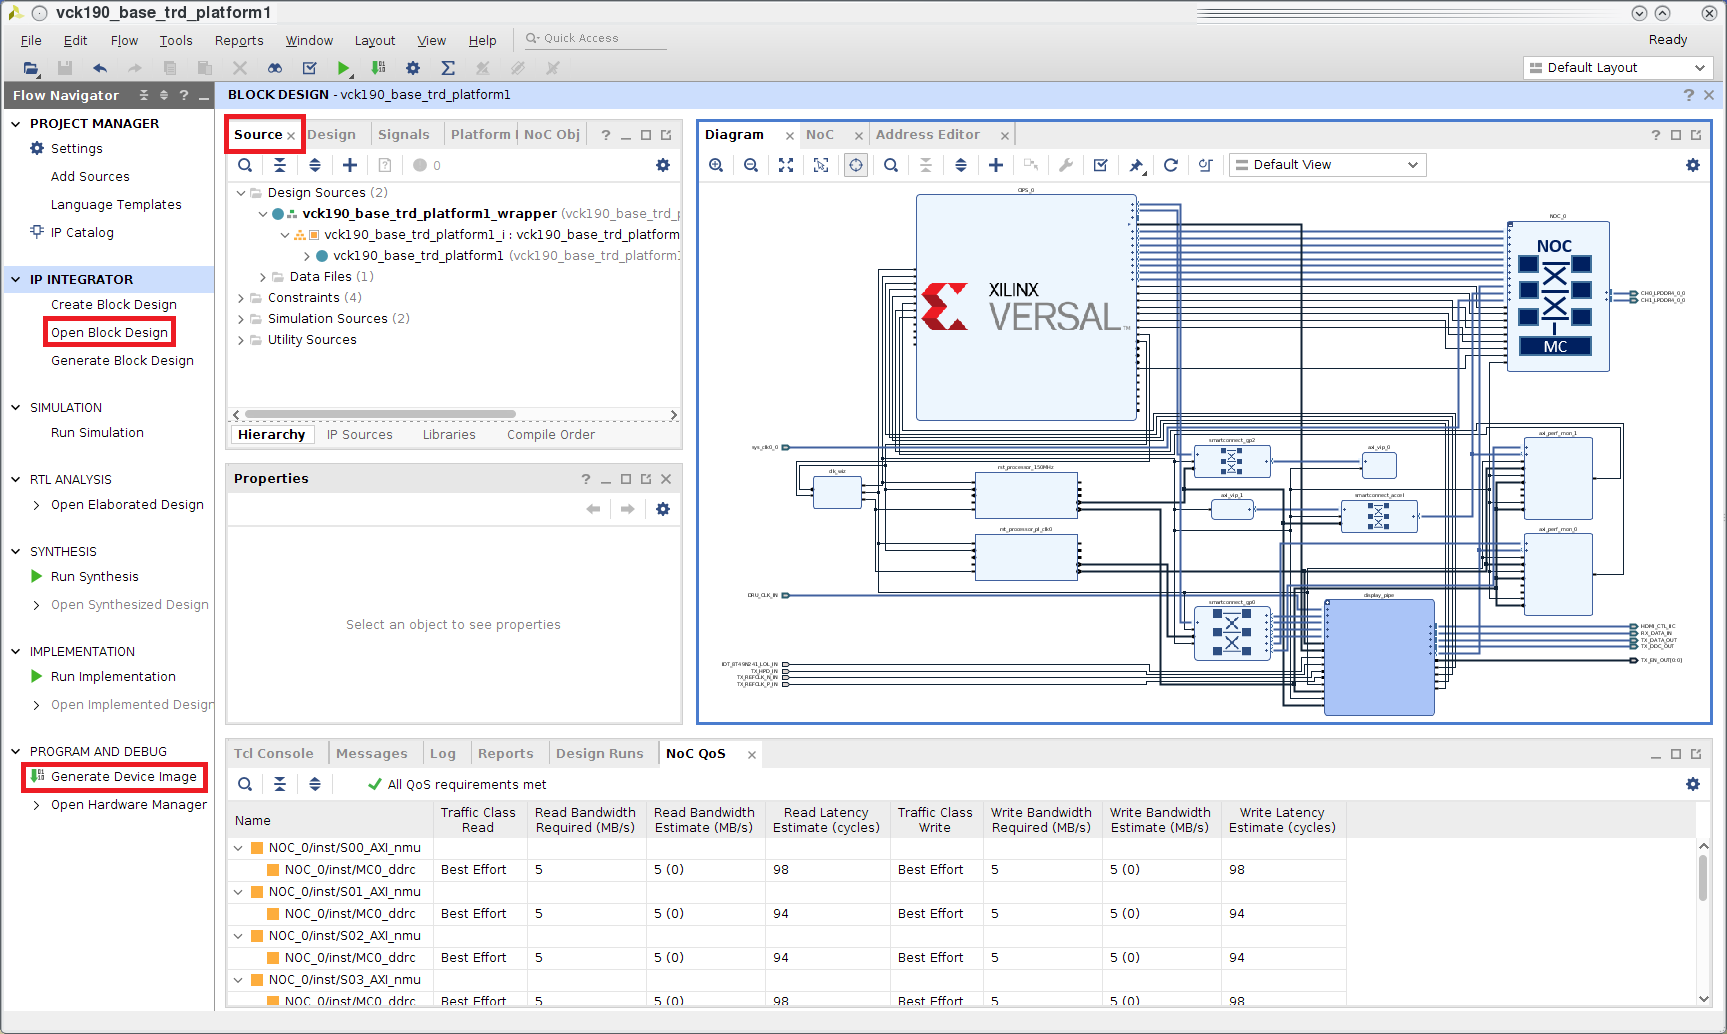
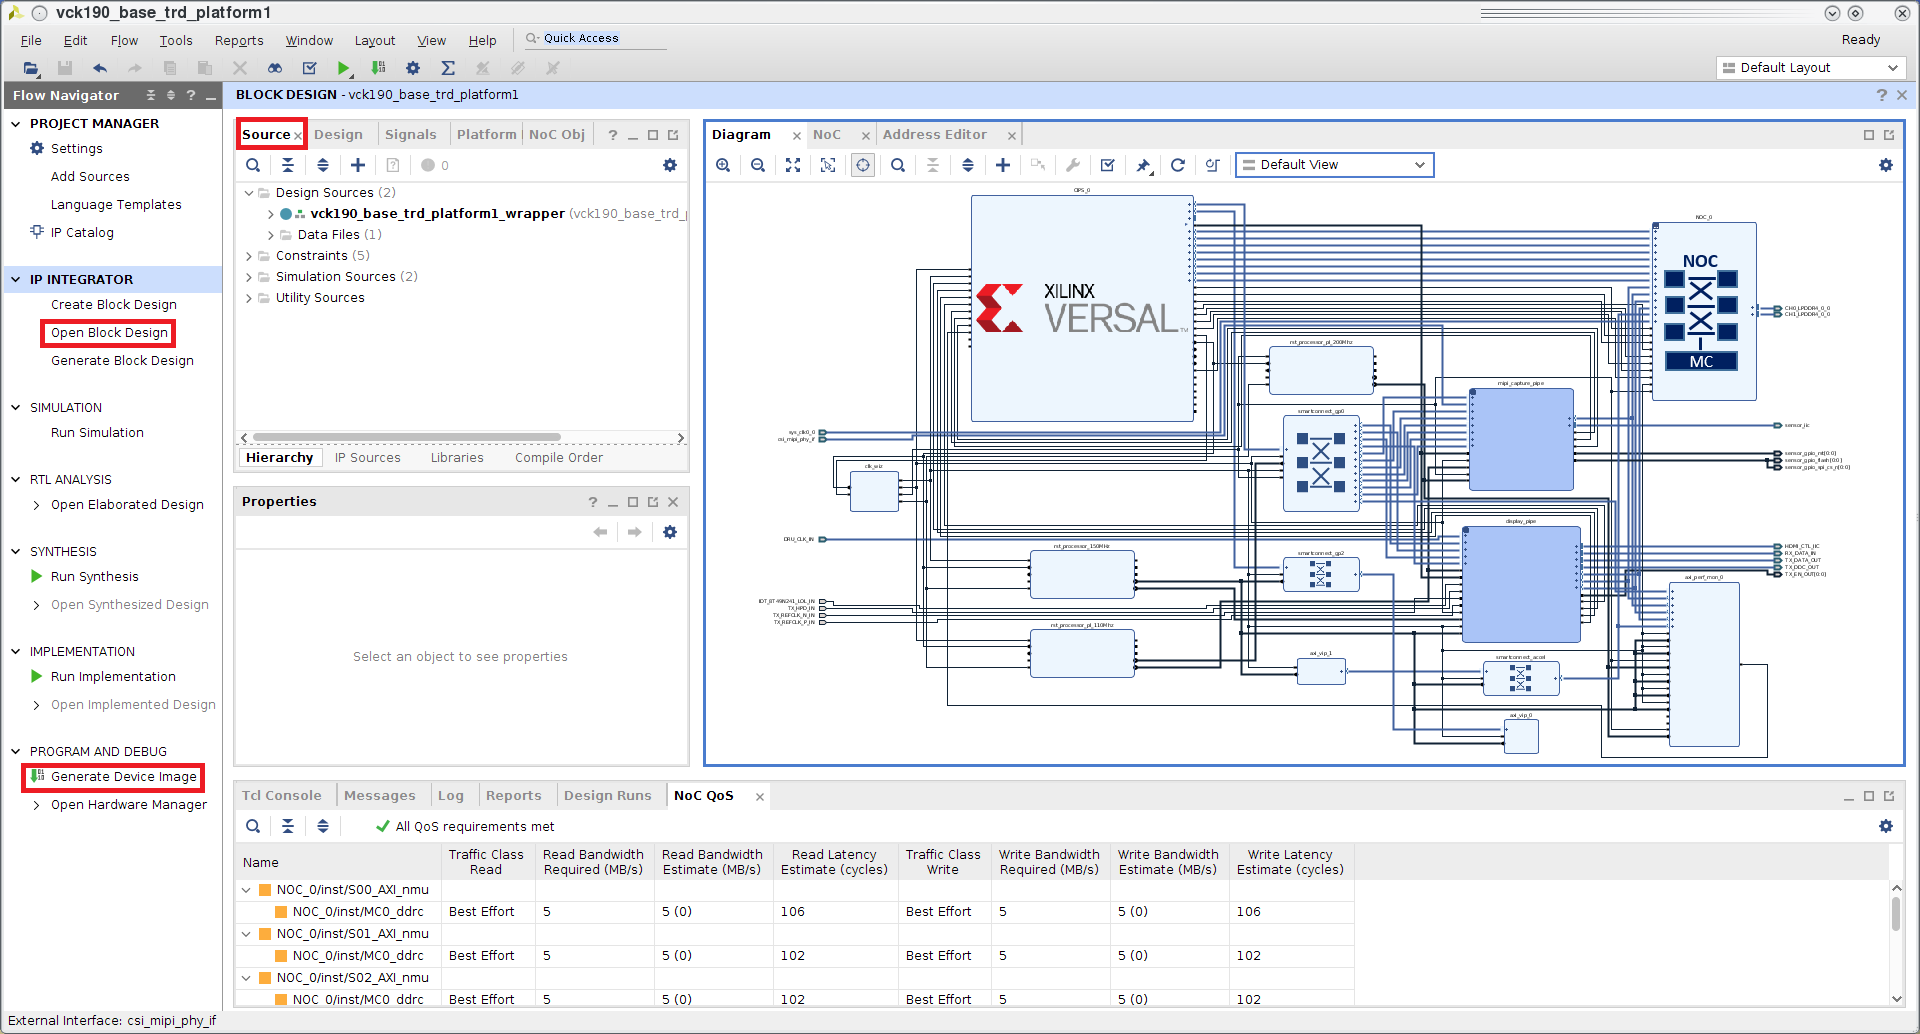
docs: Update vivado section for v0.3

diff --git a/project-spec/meta-base-trd/recipes-apps/base-trd/base-trd/docs/source/build-vivado.rst b/project-spec/meta-base-trd/recipes-apps/base-trd/base-trd/docs/source/build-vivado.rst
@@ -81,7 +81,8 @@ The directory structure is described in the Introduction Section
    on *Open Block Design*. An IP Integrator (IPI) block design
    (*vck190_base_trd_platform1.bd*) becomes visible that contains the
    Control, Interface and Processing System (CIPS) IP, NOC IP,
-   AXI Performace Monitors (APM) and Display Pipeline.
+   AXI Performace Monitors (APM), MIPI CSI capture pipeline and HDMI Tx display
+   pipeline.
 
    .. image:: images/block_design.png
      :width: 1200
@@ -94,7 +95,7 @@ The directory structure is described in the Introduction Section
    * clk_wiz: Clocks used to drive clock inputs on the accelerator.
    * smartconnect_gp2: AXI Memory Mapped master ports to drive the accelerator
      control port.
-   * smartconnect_accel:  AXI Memory Mapped slave ports driven by the
+   * smartconnect_accel: AXI Memory Mapped slave ports driven by the
      accelerator data port.
 
    .. tip::
